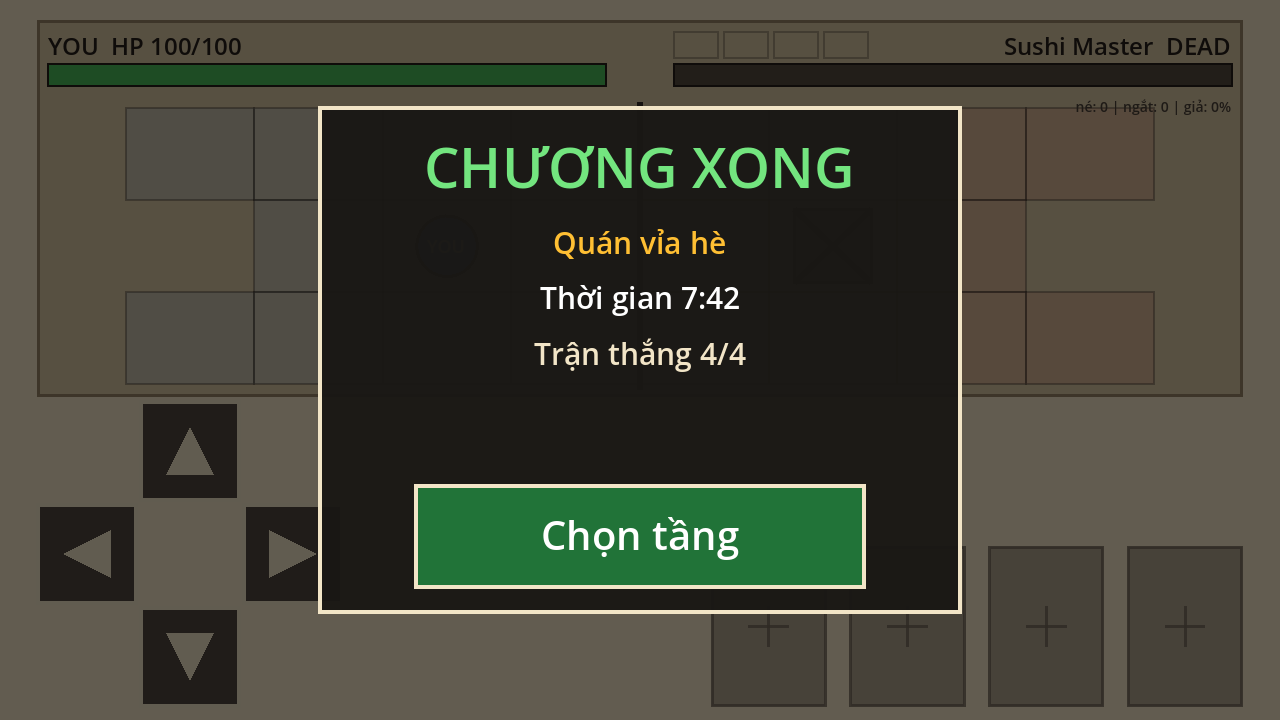
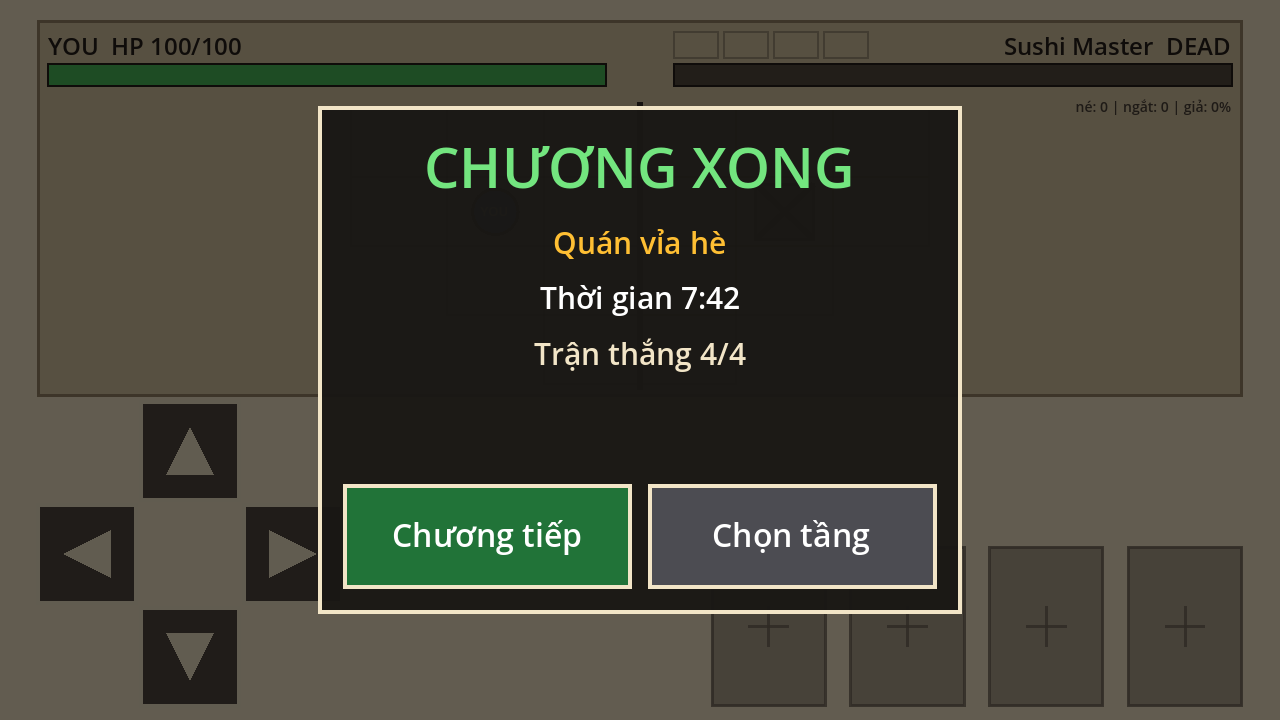
feat: "Chương tiếp" button on the chapter-clear screen (Story 015 follow-up)
Winning the last floor of a chapter now offers "Chương tiếp" (first floor of
the next chapter) next to "Chọn tầng"; the last chapter keeps only "Chọn tầng".
User decision after the Story 015 close; completion notes updated.

Story: production/epics/kaiten-duel/story-015-chapters-floors-progress.md

diff --git a/production/epics/kaiten-duel/story-015-chapters-floors-progress.md b/production/epics/kaiten-duel/story-015-chapters-floors-progress.md
@@ -43,7 +43,7 @@
 **Phần C — Luồng và màn hình**
 
 - [ ] **Màn chọn tầng** (`FloorSelectView`): danh sách chương, mỗi chương các ô tầng: *khóa* (xám, có ổ khóa vẽ bằng code), *mở* (sáng), *đã xong* (dấu tích), *đang dở* (viền nổi + "Trận 3/4"); hiện tên tầng và hình sân ("Chữ nhật", hay "Ngẫu nhiên" cho pool). Chạm ô mở → vào tầng từ trận 1; chạm ô đang dở → **tiếp tục từ trận đang dở** (vào tầng dở từ đầu là một nút phụ "Chơi lại từ đầu" trong ô đó, có xác nhận). Chỉ một tầng dở tại một thời điểm: vào tầng khác thì tầng dở cũ bị bỏ (hỏi xác nhận). Bố cục landscape 1280×720, chạm được bằng ngón cái (ô ≥ 96 px). Màn này là màn đầu tiên khi mở game cho tới khi Story 016 thêm title.
-- [ ] **Màn qua tầng** thay màn thắng của Story 011: "TẦNG XONG — <tên tầng>", hai nút: *Tầng tiếp* (nếu có và đã mở) và *Chọn tầng*. Thắng tầng cuối của chương: "CHƯƠNG XONG", chỉ còn *Chọn tầng* (chương 2 đã mở).
+- [ ] **Màn qua tầng** thay màn thắng của Story 011: "TẦNG XONG — <tên tầng>", hai nút: *Tầng tiếp* (nếu có và đã mở) và *Chọn tầng*. Thắng tầng cuối của chương: "CHƯƠNG XONG", nút *Chương tiếp* (vào tầng đầu chương kế, nếu có) và *Chọn tầng* (đổi theo quyết định người dùng 2026-10-21; story gốc chỉ có *Chọn tầng*).
 - [ ] **Màn thua** có hai nút: *Chơi lại trận* và *Chọn tầng*. Chơi lại = **đúng trận vừa thua**, cùng sân (cùng seed), boss máu đầy, người chơi có máu như lúc bước vào trận đó nhưng không dưới `retry_min_hp_ratio` × máu tối đa (`chapters.json → defaults`, khởi điểm 0,5) để không kẹt ở boss với vài máu. Vị trí trong tầng **được lưu** (`in_progress`): thoát app rồi mở lại thì tiếp tục đúng trận đó. Nút chơi lại ngay trong màn thua giữ nguyên hành vi "không cần thoát" của Story 011.
 - [ ] Máu: đầy khi vào tầng; trong tầng hồi `heal_between_matches` như hiện nay; không mang qua tầng. `RunState` ghi nhớ máu lúc vào mỗi trận (`hp_at_match_start`) cho luật chơi lại.
 - [ ] Nhãn trận trong HUD: "Tầng 2 · Trận 1/4 · <boss> · <sân>" (bỏ chữ "Chương"; tên chương chỉ ở màn chọn tầng). Boss: "Tầng 2 · BOSS · …".
@@ -105,7 +105,7 @@
 ## Completion Notes
 **Completed**: 2026-10-21
 **Criteria**: 16/16 pass. DEFERRED (needs real play): feel across three floors, difficulty of the new matches (numbers copied from the nearest existing match), floor select on touch.
-**Deviations**: ADVISORY: any dev run arg (`--run`, `--match`, `--demo`, `--arena`) forces a memory store even with `--floor`, so captures never write the real save. ADVISORY: `enter_floor` writes the in-progress record immediately, in addition to every PLAYING start. ADVISORY: the chapter-clear screen offers only "Chọn tầng" although chapter 2 exists (as written in the story; a "Chương tiếp" button is an option). ADVISORY: floor select uses one fixed block per chapter, more than 4 floors in a chapter would overflow. ADVISORY: `GameFlow.enter_test_floor()` and `set_store_for_test()` are test hooks; scratch flow tests were repointed to them. Retry/resume rule: any resume from the save (including after quitting mid-match) applies max(hp at match start, 50% of max HP); leaving from the lose screen keeps the floor in progress.
+**Deviations**: ADVISORY: any dev run arg (`--run`, `--match`, `--demo`, `--arena`) forces a memory store even with `--floor`, so captures never write the real save. ADVISORY: `enter_floor` writes the in-progress record immediately, in addition to every PLAYING start. ADVISORY: the chapter-clear screen got a "Chương tiếp" button (enters the next chapter's first floor) on the user's decision after closing, replacing the story's "only Chọn tầng"; the last chapter still shows only "Chọn tầng". ADVISORY: floor select uses one fixed block per chapter, more than 4 floors in a chapter would overflow. ADVISORY: `GameFlow.enter_test_floor()` and `set_store_for_test()` are test hooks; scratch flow tests were repointed to them. Retry/resume rule: any resume from the save (including after quitting mid-match) applies max(hp at match start, 50% of max HP); leaving from the lose screen keeps the floor in progress.
 **Test Evidence**: Integration; tests waived at `qa.level: minimal`. Retained screenshots `production/qa/evidence/chapters-floors/01-10*.png` (all opened and checked). Scratch tests: chapters 66 pass, floor flow 41 pass, trait/arena/run flow 0 fails (headless), cut/focus flow 0 fails (windowed). Real `user://progress.json` round trip verified once, file removed.
 **Code Review**: Skipped (solo mode).
 **Not verified**: real feel, touch on a device, a chapter with more than 4 floors.
